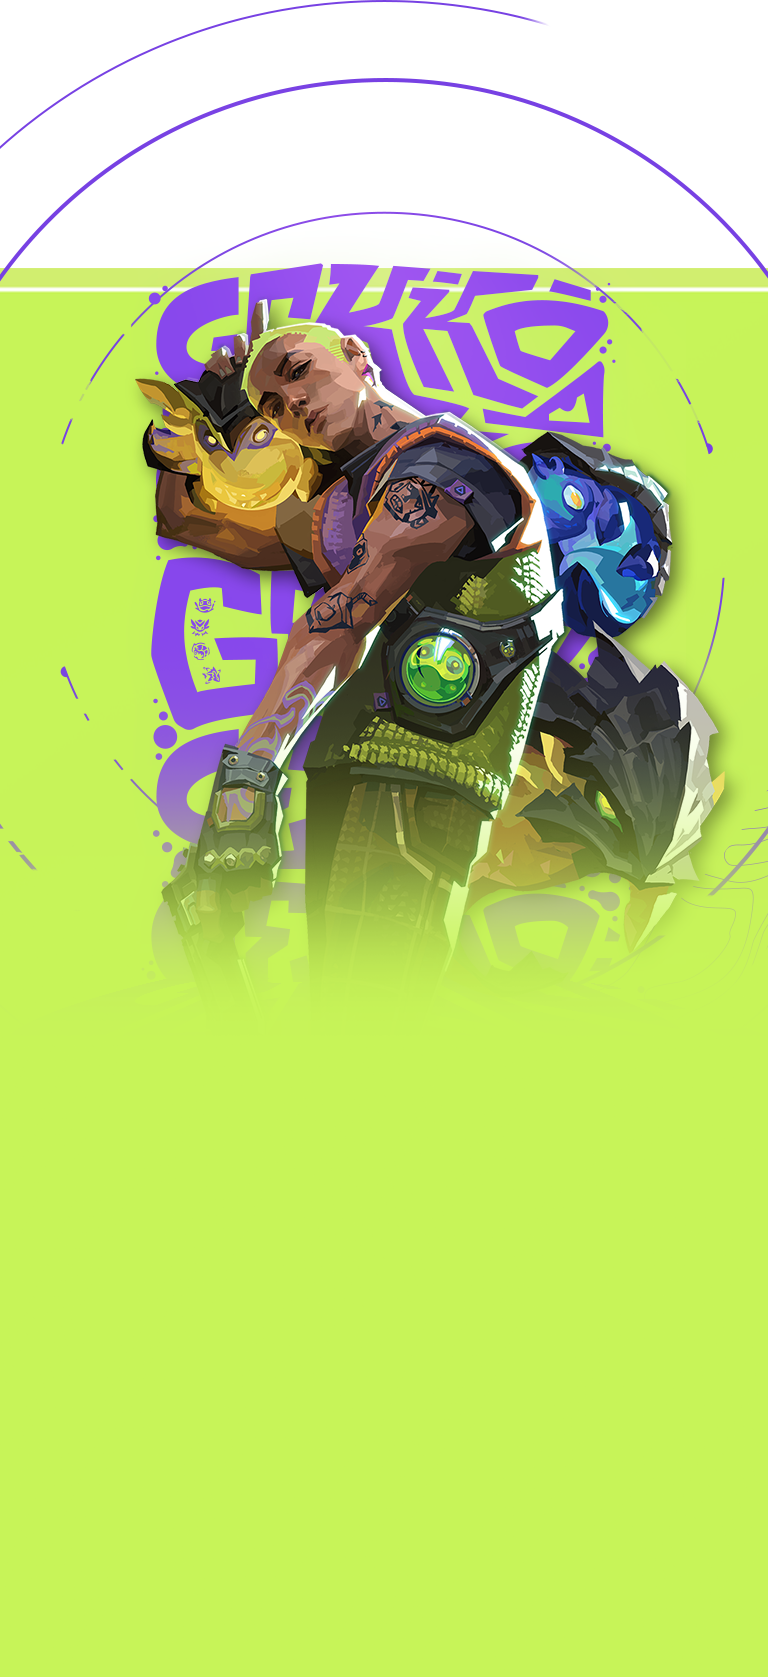
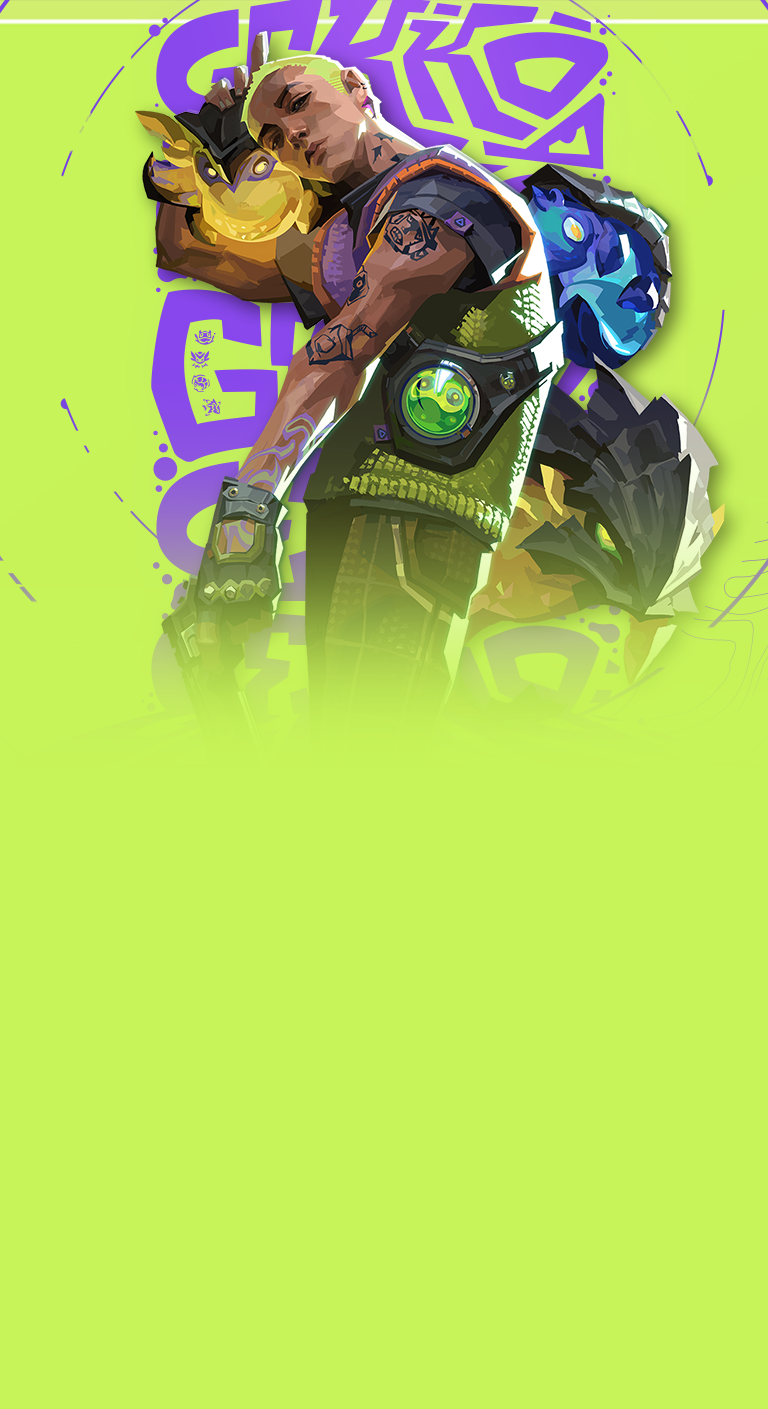
frame 6 update

diff --git a/src/layouts/Frame6.tsx b/src/layouts/Frame6.tsx
@@ -9,11 +9,11 @@ const Frame6 = (props: Props) => {
       <div className="w-full h-full flex items-center">
         <img
           src="/f6-desktop-gekko.png"
-          className="absolute right-0 top-0"
+          className="absolute right-0 top-0 hidden md:block"
           alt="frame 6 desktop background"
         />
-        <div className="flex flex-col items-center justify-around w-[50%] h-[35%] z-10">
-          <div className="text-black w-[60%] font-semibold text-3xl text-center">
+        <div className="flex flex-col items-center justify-around  md:w-[50%] h-[30%] md:h-[35%] z-10 mt-[40vh]">
+          <div className="text-black w-[80%] md:w-[60%] font-semibold text-2xl md:text-3xl text-center">
             BẮT ĐẦU HÀNH TRÌNH KHỞI TRANH BÙNG NỔ VÀ ĐA DẠNG ĐẶC VỤ TẠI
           </div>
           <img
@@ -29,9 +29,7 @@ const Frame6 = (props: Props) => {
           {/* Button */}
           <div className="flex justify-center items-center w-full mb-8">
             <div>
-              <div
-                className={`main__button2 w-24 md:w-36`}
-              ></div>
+              <div className={`main__button2 w-24 md:w-36`}></div>
               <div className={`flex justify-end text-[#8C4AEC]`}>
                 <div className="pr-5 my-3">
                   <div className="pointy-right2"></div>
@@ -80,6 +78,47 @@ const Frame6 = (props: Props) => {
               </div>
               <div className="main__button2 w-24 md:w-36"></div>
             </div>
+          </div>
+
+          {/* Social Media */}
+          <div className="relative flex items-center justify-center mb-20 lg:mb-32">
+            <button
+              // onClick={() => redirectToLink("https://www.facebook.com/")}
+              className="relative flex flex-col border-2 border-[#8C4AEC] bg-transparent p-7 overflow-hidden button__footer mx-5
+          before:contents[''] before:w-1 before:h-1 before:bg-[#8C4AEC] before:border-white before:absolute before:-top-0 before:-right-0 before:z-10
+          after:contents[''] after:w-1 after:h-1 after:bg-[#8C4AEC] after:border-white after:absolute after:-bottom-0 after:-left-0 after:z-10"
+            >
+              <div className="absolute bg-black w-[200%] h-[200%] -bottom-[200%] -left-[200%] skew-x-[45deg] duration-200"></div>
+              <div className="absolute top-3 left-1 border-b border-[#8C4AEC] w-3 transform rotate-45 transform-origin-left"></div>
+              <img src={"/f6-circle-bug"} alt="facebook icon" className="w-8 z-10" />
+              <div className="absolute bottom-3 right-1 border-b border-[#8C4AEC] w-3 transform rotate-45 transform-origin-left"></div>
+            </button>
+
+            <button
+              // onClick={() => redirectToLink("https://www.youtube.com/")}
+              className="relative flex flex-col border-2 border-[#8C4AEC] bg-transparent p-7 overflow-hidden button__footer mx-5
+          before:contents[''] before:w-1 before:h-1 before:bg-[#8C4AEC] before:border-white before:absolute before:-top-0 before:-right-0 before:z-10
+          after:contents[''] after:w-1 after:h-1 after:bg-[#8C4AEC] after:border-white after:absolute after:-bottom-0 after:-left-0 after:z-10"
+            >
+              {" "}
+              <div className="absolute bg-black w-[200%] h-[200%] -bottom-[200%] -left-[200%] skew-x-[45deg] duration-200"></div>
+              <div className="absolute top-3 left-1 border-b border-[#8C4AEC] w-3 transform rotate-45 transform-origin-left"></div>
+              <img src={`/f6-circle-bug`} alt="facebook icon" className="w-8 z-10" />
+              <div className="absolute bottom-3 right-1 border-b border-[#8C4AEC] w-3 transform rotate-45 transform-origin-left"></div>
+            </button>
+
+            <button
+              // onClick={() => redirectToLink("https://www.tiktok.com/")}
+              className="relative flex flex-col border-2 border-[#8C4AEC] bg-transparent p-7 overflow-hidden button__footer mx-5
+          before:contents[''] before:w-1 before:h-1 before:bg-[#8C4AEC] before:border-white before:absolute before:-top-0 before:-right-0 before:z-10
+          after:contents[''] after:w-1 after:h-1 after:bg-[#8C4AEC] after:border-white after:absolute after:-bottom-0 after:-left-0 after:z-10"
+            >
+              {" "}
+              <div className="absolute bg-black w-[200%] h-[200%] -bottom-[200%] -left-[200%] skew-x-[45deg] duration-200"></div>
+              <div className="absolute top-3 left-1 border-b border-[#8C4AEC] w-3 transform rotate-45 transform-origin-left"></div>
+              <img src={`/f6-circle-bug`} alt="facebook icon" className="w-8 z-10" />
+              <div className="absolute bottom-3 right-1 border-b border-[#8C4AEC] w-3 transform rotate-45 transform-origin-left"></div>
+            </button>
           </div>
         </div>
       </div>

diff --git a/src/layouts/Frame5.tsx b/src/layouts/Frame5.tsx
@@ -32,7 +32,7 @@ const Frame5: React.FC<Props> = (props: Props) => {
       {/* desktop */}
       <div className="hidden md:block h-full">
         <div
-          // className={`absolute translate-x-[-${view}%] transform top-0 h-full w-[250%] transition-transform duration-500 ease-in-out`}
+          // className={`absolute translate-x-[-${view}%] transform top-0 h-full w-[350%] transition-transform duration-500 ease-in-out`}
           className={`absolute -left-[${view}%] top-0 h-full w-[250%] transition-transform duration-500 ease-in-out`}
         >
           <img
